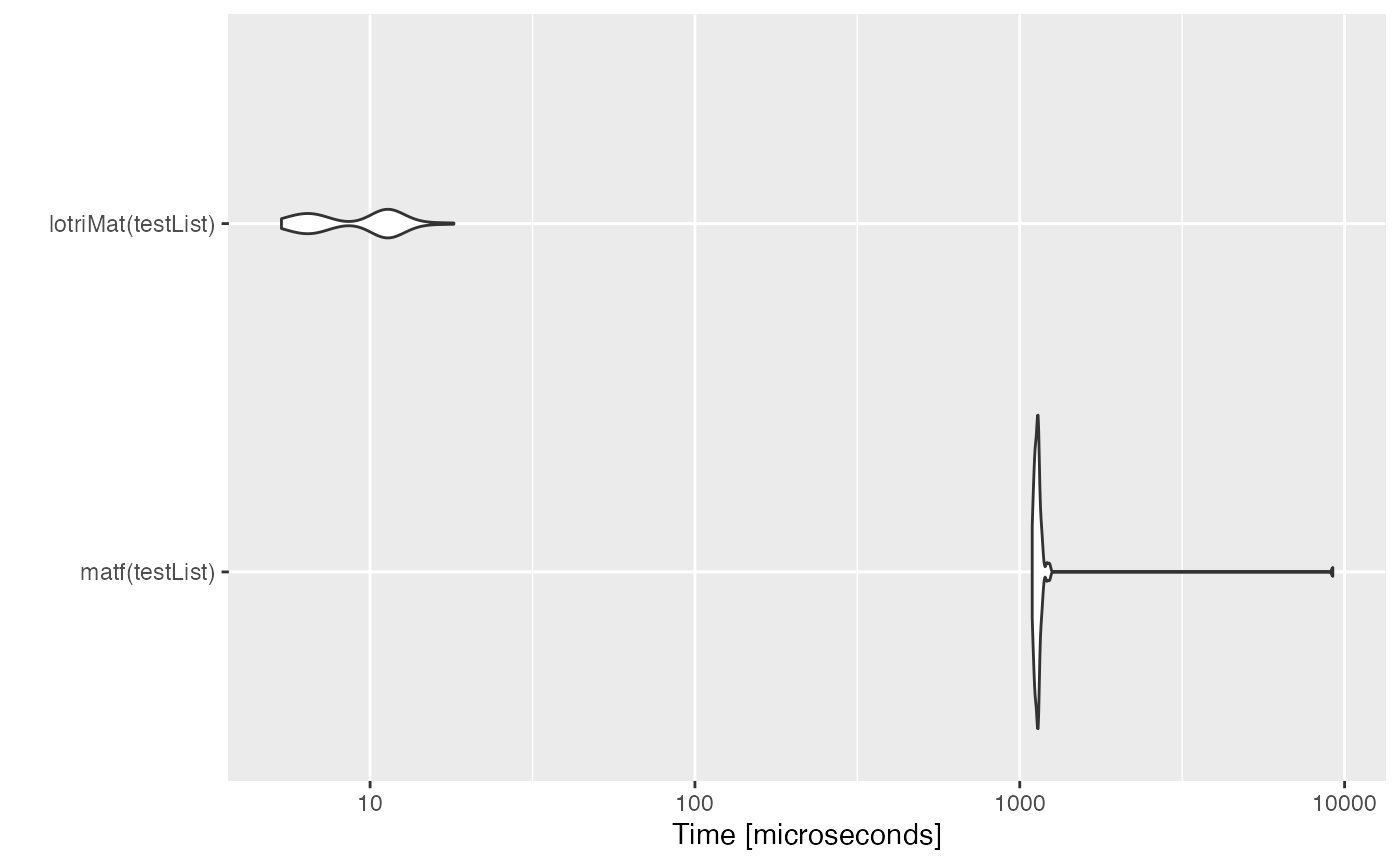
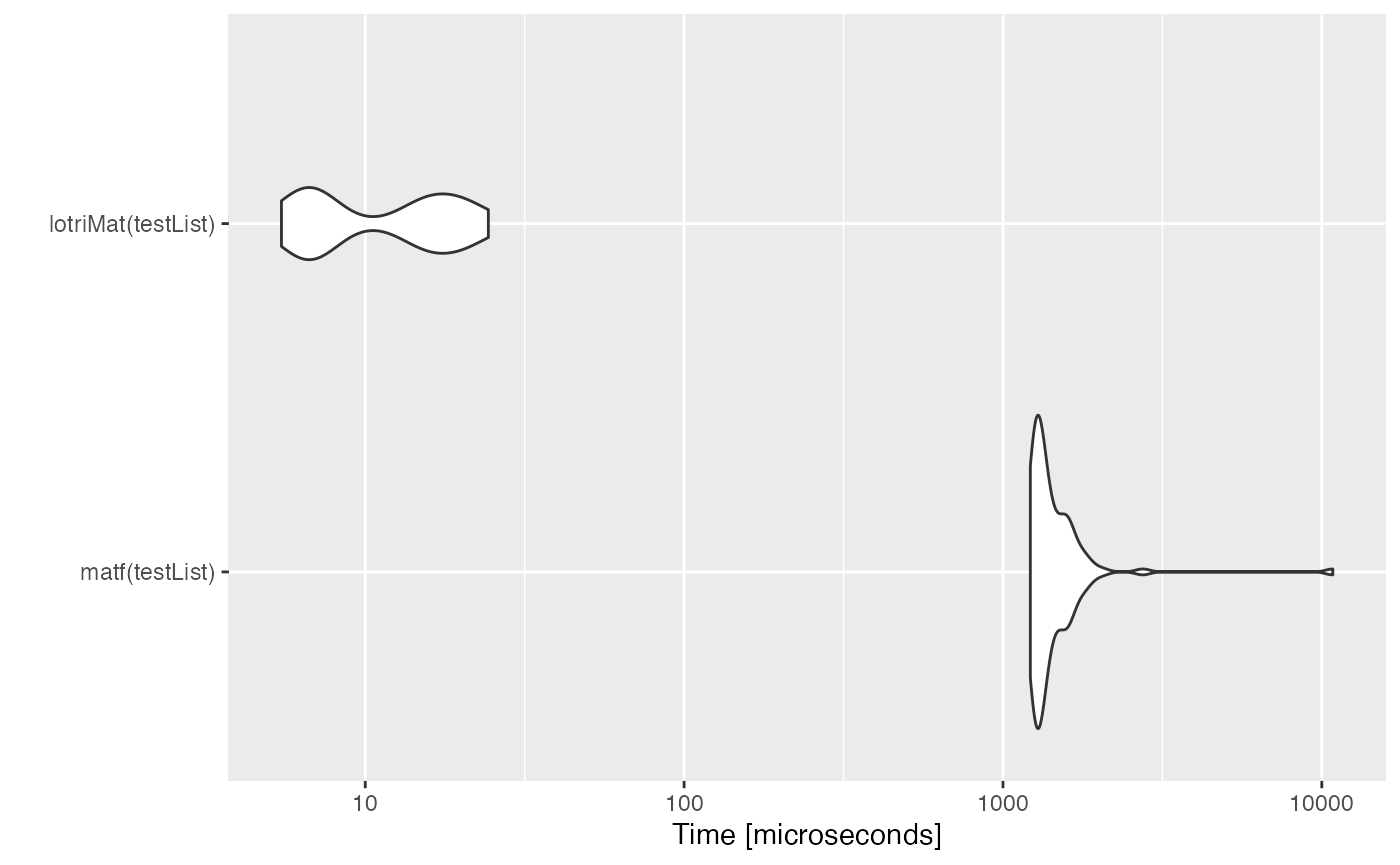
Built site for lotri: 0.3.1@89e7709

diff --git a/articles/lotri-motivation.html b/articles/lotri-motivation.html
@@ -92,7 +92,7 @@
       <h1 data-toc-skip>Lotri Motivation</h1>
                         <h4 class="author">Matthew Fidler</h4>
             
-            <h4 class="date">2021-02-24</h4>
+            <h4 class="date">2021-03-28</h4>
       
       <small class="dont-index">Source: <a href="https://github.com/nlmixrdevelopment/lotri/blob/master/vignettes/lotri-motivation.Rmd"><code>vignettes/lotri-motivation.Rmd</code></a></small>
       <div class="hidden name"><code>lotri-motivation.Rmd</code></div>
@@ -242,9 +242,9 @@
 
 <span class="fu"><a href="https://rdrr.io/r/base/print.html">print</a></span><span class="op">(</span><span class="va">mb</span><span class="op">)</span>
 <span class="co">#&gt; Unit: microseconds</span>
-<span class="co">#&gt;                expr      min       lq       mean    median        uq      max</span>
-<span class="co">#&gt;      matf(testList) 1092.357 1115.535 1215.19156 1131.9830 1144.7730 9200.095</span>
-<span class="co">#&gt;  lotriMat(testList)    5.335    6.638    9.31431   10.8925   11.3225   18.112</span>
+<span class="co">#&gt;                expr      min       lq       mean    median        uq       max</span>
+<span class="co">#&gt;      matf(testList) 1218.626 1266.682 1509.28052 1335.9120 1544.1415 10826.972</span>
+<span class="co">#&gt;  lotriMat(testList)    5.460    6.742   12.32592   11.5555   17.3425    24.324</span>
 <span class="co">#&gt;  neval</span>
 <span class="co">#&gt;    100</span>
 <span class="co">#&gt;    100</span>
